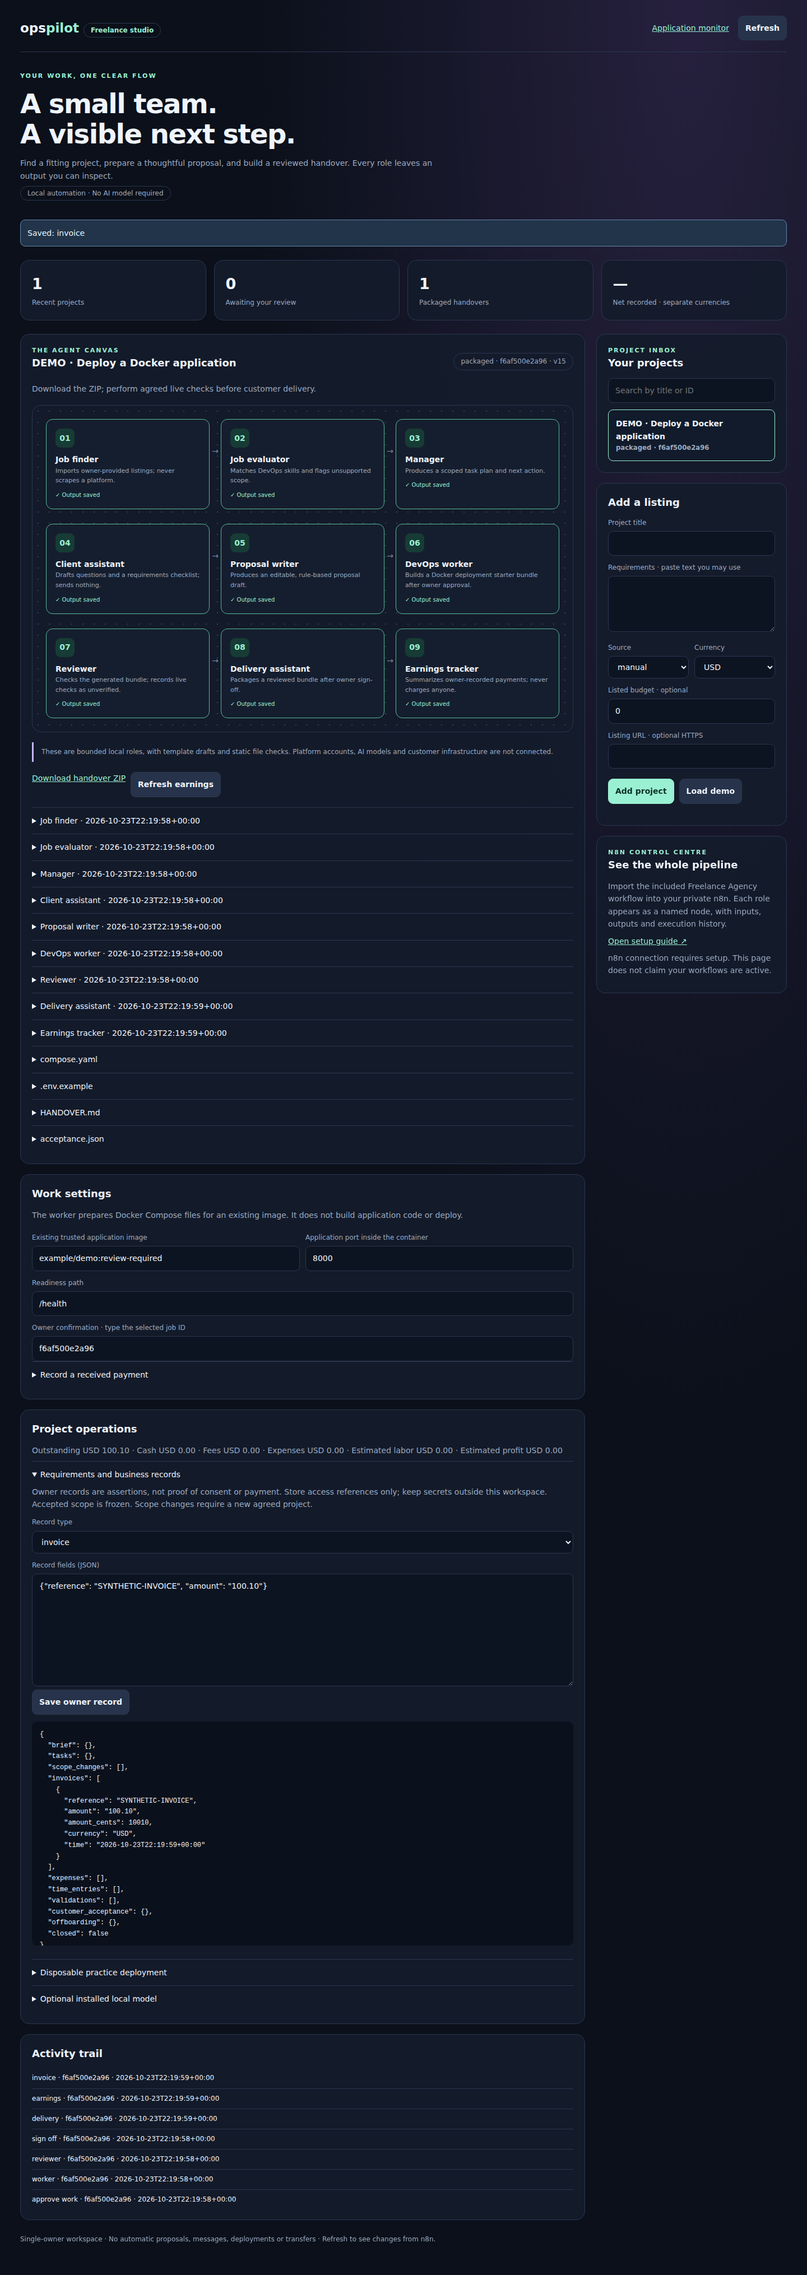
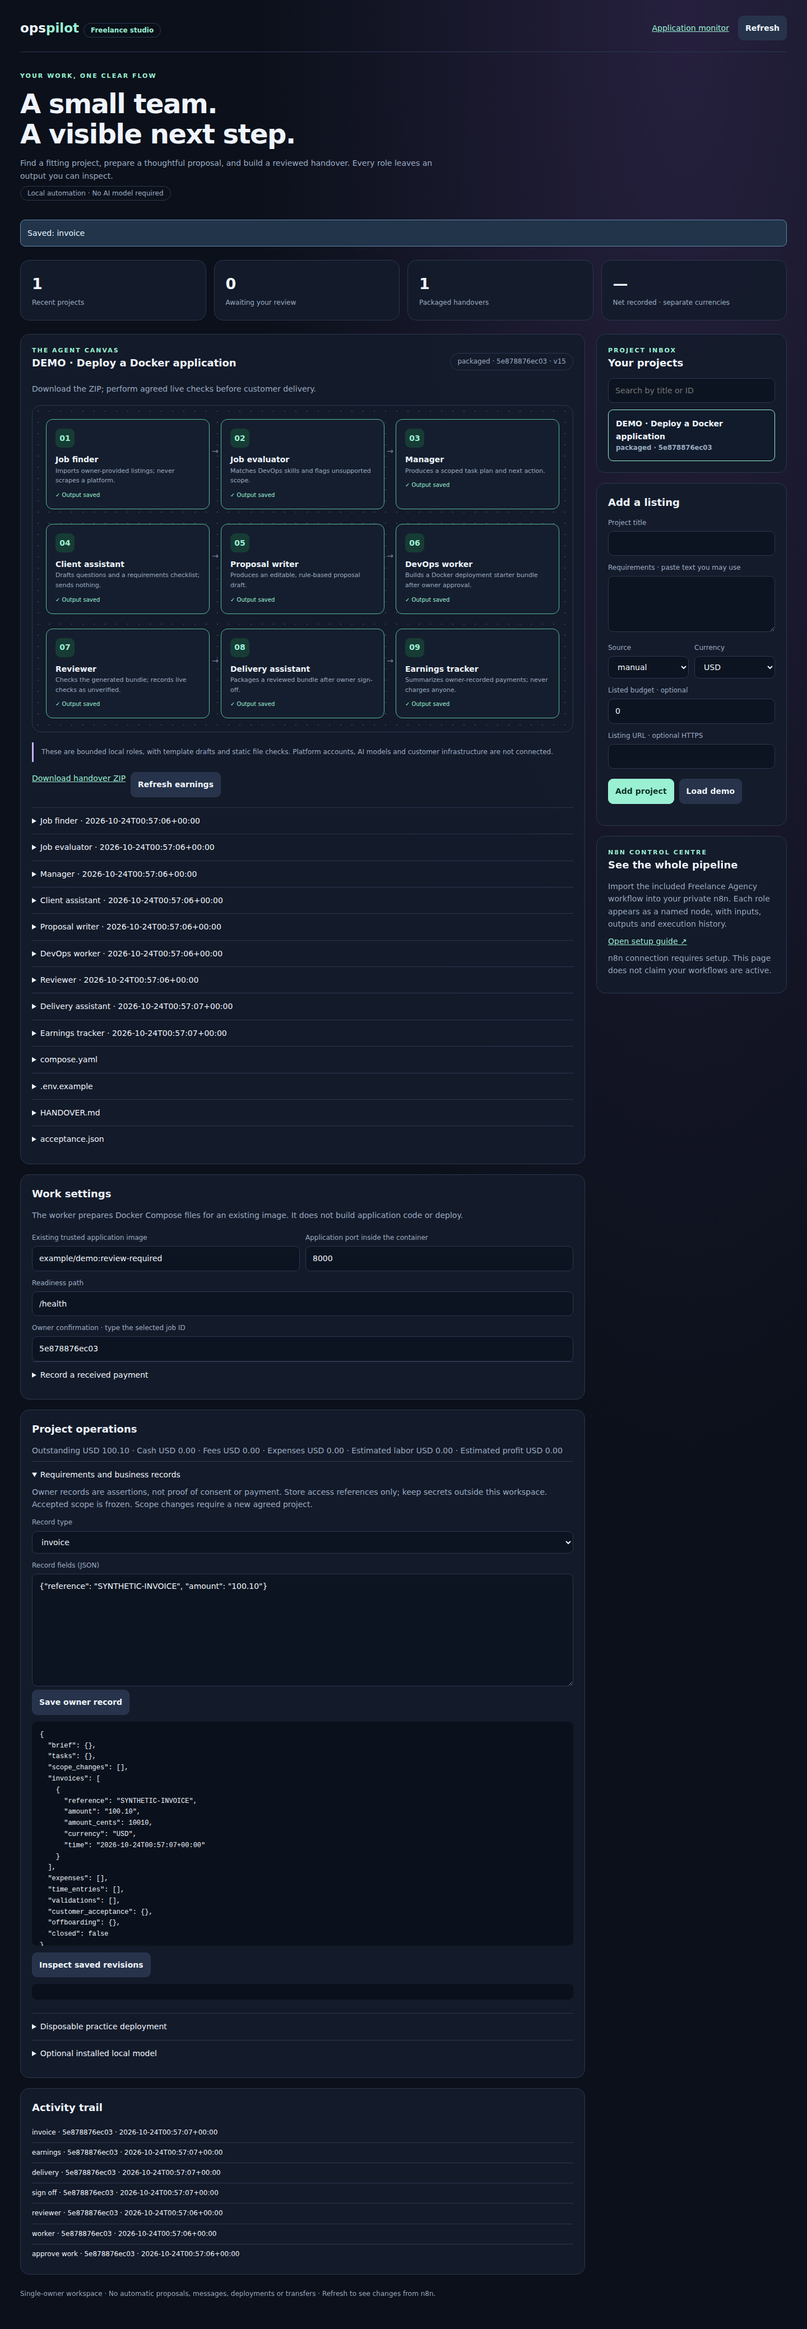
Record seven-job acceptance evidence and final 50-step roadmap status

diff --git a/docs/AGENCY-VALIDATION.md b/docs/AGENCY-VALIDATION.md
@@ -1,40 +1,55 @@
 # Agency continuation validation
 
-Current continuation is on `feat/freelance-agency-studio`, PR #4, not main. Inspection confirmed the clean remote feature head `fe83251a20ce8c42843c111222a183573010743a`, open/unmerged PR and the prior successful [foundation run](https://github.com/Vishnu063/ops-pilot/actions/runs/40023644211). That run proves only the prior foundation. Historical untracked drafts were absent; new modules implement their stated requirements.
+**All seven CI jobs passed on implementation commit `782a8aa428d6872e49f83d2924485ec7c321abe9`: [run 40047437636](https://github.com/Vishnu063/ops-pilot/actions/runs/40047437636).** The final follow-up changes only documentation and captured synthetic evidence. Work continues on `feat/freelance-agency-studio` in [PR #4](https://github.com/Vishnu063/ops-pilot/pull/4); main was not updated or merged.
 
-Local continuation checks (2026-10-24): initial full suite 40 discovered / 36 passed / four Docker skips; added interruption/expiry tests and final rerun results will be recorded below. Financial tests cover project isolation, duplicate references, exact cents, fees, labor rounding and unauthorized mutations. Backup tests cover consistency/artifact recovery, private modes, hash tampering and refusal to overwrite. Lab-control tests use simulated subprocess failures and must not be described as Docker execution.
+The [50-step roadmap](AGENCY-ROADMAP.md) records **32 verified in repository/synthetic scope and 18 prepared/documented**. This is not a claim that 50 customer actions occurred or that the agency is production-ready.
 
-Installed CLI/setup smoke passed with the virtual environment on PATH. Python/shell/dashboard JavaScript syntax and generated n8n structural/credential-boundary checks passed before workspace recovery; rerun required on recovered checkout.
+## Observed results
 
-Local Playwright downloaded successfully, but Chromium launch was refused by the macOS sandbox (`bootstrap_check_in ... Permission denied`). No new local visual/browser pass is claimed. Linux browser CI remains required. Local Docker and systemd are unavailable. An Ollama executable is present; localhost:11434 refused connection. No model was downloaded or started; real advice quality/usage comparison remains unverified.
+| Check | Result and evidence | Boundary |
+| --- | --- | --- |
+| Local Python suite | 47 discovered, 43 passed, four opt-in Docker cases skipped | Skips are not passes. Tests use real local HTTP/SQLite; most Docker failures are simulated. |
+| CI Python 3.11/3.12/3.13 | All passed, including installed CLI/setup smoke, syntax and workflow structure | Single-owner software; no hostile tenant security claim. |
+| Original Docker lab | Three actual container/recovery cases passed in CI | Preserves the pinned monitoring engine and separate repair approval. |
+| Generated-bundle Docker lab | Actual generated Compose config/start, healthy HTTP 200, unhealthy endpoint deadline and ownership-checked cleanup passed | Practice runtime only; both cleanups verified. No customer target accessed. |
+| Desktop/mobile browsers | Original monitor and agency journeys passed; nine roles, separate approvals, invoice record, ZIP, no page errors or mobile overflow | Synthetic listings; original monitor uses simulated Docker. Screenshots were visually reviewed. |
+| Real systemd lab | Detached start and crash recovery passed | Disposable CI host, no customer service installation. |
+| Real n8n 2.44.6 | Authenticated production form, five planning roles, owner decisions, worker/reviewer, delivery, business record/payment, board, stale refusal and binary ZIP response passed | Disposable isolated CI runtime with synthetic credentials/data; no existing account configured. [Result](evidence/n8n-acceptance.json). |
+| Business/approval tests | Per-project/currency balances, exact cents and labor rounding, duplicates, role denial, scope freeze, changed-evidence invalidation, expiry, closure and concurrency passed | Owner records are not proof of consent, identity, acceptance or money. |
+| Backup/restore | Consistent embedded-artifact snapshot, private modes, integrity/hash, tamper refusal and fresh-destination restore passed | Restored approvals cleared. Original monitor and n8n credential/volume backups are separate. |
+| Lab failure controls | Simulated timeout, interrupted restart/recovery, failed cleanup, foreign ownership and different-daemon refusal passed | These failure simulations are not real Docker timeout/host-failure evidence. |
+| Synthetic pilot | Nine roles, business/financial records, customer-acceptance/offboarding simulation, closure and restoration passed | [Report](evidence/synthetic-pilot.json); no real customer or money. |
+| Optional AI | Adapter is bounded, cached, has no execution/tools/paid fallback; missing-model refusal tested | Local Ollama service was unavailable; no model downloaded, quality benchmark, token/cost saving or real model acceptance claimed. |
 
-The workspace directory unexpectedly disappeared during validation, including uncommitted source and a disposable n8n install. Its cause was not established. Authoring commands were recovered from this chat's local command log, replayed against a fresh clone, and checkpointed in Git. Final checks apply to the recovered tree. This incident is not a successful n8n import/acceptance result.
+The compatible unprivileged Docker fixture uses port 8080; see [its upstream documentation](https://github.com/nginx/docker-nginx-unprivileged). The worker still requires an explicitly allowlisted immutable image already present locally and a local Unix Docker daemon. It never pulls/builds images. Its lab approval is persisted as consumed before side effects; recovery requires the recorded original daemon/endpoint and refuses an active process or foreign resources.
 
-## Required checks and their purpose
+![Actual n8n completion board from the isolated synthetic test](images/n8n-agency-board.png)
 
-- `python -m unittest discover -s tests -v` tests persistence, authentication, approvals, business/accounting, backup and simulated failure behavior. Opt-in Docker tests explicitly skip without a disposable host.
-- `python scripts/installation_smoke.py` tests the installed command entry point and private setup/cancellation. Activate the repository virtual environment first so `ops-pilot` is on PATH.
-- `python -m compileall -q ops_pilot scripts tests` checks Python syntax; `bash -n start.sh scripts/install-service.sh` parses shell scripts without executing them.
-- Extract each dashboard's script and run `node --check` to parse JavaScript without a browser. This does not establish visual correctness.
-- `python scripts/build-freelance-workflow.py` regenerates the credential-free inactive workflow; `python scripts/check-freelance-workflow.py` checks structure and owner/worker boundaries. Neither establishes n8n runtime behavior.
-- `python tests/browser_acceptance.py` and `python tests/freelance_browser.py` exercise real desktop/mobile Chromium against local HTTP/SQLite; original monitoring uses simulated Docker.
-- `OPS_PILOT_GENERATED_LAB=1 python -m unittest discover -s tests -p test_generated_bundle_lab.py -v` pulls a public practice image as test setup, then validates the actual generated Compose artifact with an immutable allowlist, real start/readiness/unhealthy endpoint and owned cleanup. Run only on an owned disposable Docker host; the worker itself never pulls images.
-- `python scripts/synthetic-pilot.py` exercises nine roles, explicit owner gates, synthetic business/financial records and backup restoration; saves a labelled report and example starter bundle. It deploys nothing and collects no money.
+This is a real rendered n8n completion response, not a live canvas or the owner's account. Figures are synthetic ledger entries. The earlier SVG remains a generated canvas overview. The current agency desktop/mobile screenshots came from the passing CI run and were reviewed before delivery.
 
-## Remaining external actions
+## Reproducible checks and purpose
 
-No customer infrastructure, cloud account, signed agreement, verified authorization, actual acceptance, bank receipt, paid pilot or platform account was supplied. No proposals/messages were sent, services publicly exposed, payments collected or customer changes performed. External acceptance cannot be marked complete by an owner checkbox or a synthetic test. Optional repositories remain deferred as described in the decision inventory. n8n credentials/volumes require their own backup; this repository's snapshot tool cannot replace it.
+Activate the repository virtual environment first so its installed `ops-pilot` command is on PATH.
 
-## Verified continuation evidence
+- `python -m unittest discover -s tests -v` checks persistence, local HTTP authentication, approvals, accounting, revision history, backup and failure controls. Opt-in Docker cases skip without an owned disposable host.
+- `python scripts/installation_smoke.py` checks the installed CLI, private setup and cancellation behavior.
+- `python -m compileall -q ops_pilot scripts tests` parses Python; `bash -n start.sh scripts/install-service.sh` parses shell without running services. Extract each dashboard script and use `node --check` to parse its JavaScript; this is not visual acceptance.
+- `python scripts/build-freelance-workflow.py` regenerates the inactive credential-free workflow. `python scripts/check-freelance-workflow.py` checks structure, expression boundaries and credential roles; neither replaces runtime acceptance.
+- `python tests/browser_acceptance.py` and `python tests/freelance_browser.py` exercise real Chromium desktop/mobile sessions against local HTTP/SQLite.
+- `OPS_PILOT_GENERATED_LAB=1 python -m unittest discover -s tests -p test_generated_bundle_lab.py -v` runs actual Compose acceptance only on a disposable owned Docker host. The test setup explicitly pulls its public fixture; the worker does not.
+- Set `N8N_EXECUTABLE` to an isolated n8n 2.44.6 executable and run `python tests/n8n_acceptance.py` under Node 24 to exercise real forms, bridge and ZIP. It creates a private temporary n8n instance with generated credentials, then stops it. Do not point it at an existing account/state directory.
+- `python scripts/synthetic-pilot.py` regenerates the labelled report/example files using temporary state; it deploys nothing and records no real money.
 
-[Run 40032826085](https://github.com/Vishnu063/ops-pilot/actions/runs/40032826085) passed all six existing jobs on commit `54faba2946b080626abb877932fa4c7773776044`: Python 3.11/3.12/3.13 tests and installation/syntax/workflow checks, desktop/mobile browser journeys, original and generated-bundle real Docker labs, and actual systemd start/crash recovery. Mobile overflow and an incompatible privileged nginx fixture were corrected before this pass. The compatible unprivileged practice image uses port 8080; see [upstream image documentation](https://github.com/nginx/docker-nginx-unprivileged). Healthy readiness passed, unhealthy readiness failed within its bound, and both cleanups were verified. This is practice acceptance only.
+## Inspection and resolved failures
 
-Browser artifacts were downloaded from that run and visually inspected at desktop/mobile sizes. The synthetic screenshot and browser result are saved under docs/images/agency-studio.png and docs/evidence/agency-browser.json. Later evidence/history/daemon protections have local regression tests and require the final CI result below.
+Inspection confirmed a clean feature head `fe83251a20ce8c42843c111222a183573010743a`, open/unmerged PR #4, and the earlier [passing foundation run](https://github.com/Vishnu063/ops-pilot/actions/runs/40023644211). The historical untracked drafts were absent; the new modules implement their described requirements, rather than claiming recovery of those drafts.
 
-Local disposable n8n installation failed following network errors, then exhausted available disk on retry. Only task-owned runtime/cache files were removed; no existing n8n installation was modified. The real n8n journey is being run in an isolated Linux CI job with Node 24 (required by n8n 2.44.6). The first attempt could not reach a ready form; sanitized runtime diagnostics were added. No n8n end-to-end success is claimed from that failure.
+Validation found and corrected mobile overflow, an incompatible stock nginx fixture, n8n Form Trigger completion mode, execution persistence needed by completion polling, and an expression terminator in the worker route. Real n8n acceptance caught errors that CLI import/structural checks had missed. The passing run above follows those corrections.
 
-The real n8n run exposed a foundation runtime error that import/structural checks had missed: Form Trigger responseMode=responseNode requires a Respond to Webhook node and conflicts with the Form Ending design. The generator now uses lastNode (Workflow Finishes); actual acceptance is rerun after this correction.
+The local macOS sandbox refused Chromium Mach-port registration, so visual/browser acceptance ran in Linux CI. Local Docker/systemd were unavailable. Disposable local n8n installation encountered network failures and disk exhaustion; only task-owned test runtimes/caches were removed. An unexpected workspace-directory removal also occurred; its cause was not established. Authored changes were recovered from this chat's command log onto a fresh clone and checkpointed in Git. Final verification applies to that recovered tree; no existing n8n installation or customer data was changed.
 
-The next real form test reached submission and exposed another runtime requirement: n8n completion polling needs successful execution persistence. The workflow retains the foundation setting to save executions, with private n8n access and bounded retention required. Disabling payload persistence broke completion and was reverted; keeping secrets out of forms remains essential.
+## Remaining external dependencies
 
-Real n8n intake/planning and owner approvals then passed. The generated-file route exposed an adjacent `}}` object closure inside its expression; those braces are separated so they cannot be read as the expression terminator. Runtime acceptance continues beyond that fix.
+The owner's actual n8n/backend instance still needs its private credentials, import/setup and operational acceptance. n8n Form Ending needs saved successful execution status; keep it private and configure pruning (the optional Compose example uses seven days). Back up n8n volumes and encryption key separately.
+
+No real client, signed agreement, verified authorization/access, customer target, reviewed customer delivery, actual acceptance, bank receipt or paid pilot was supplied. Those actions remain pending. No proposals/messages were sent, services publicly exposed, payments collected or customer infrastructure changed. Owner-entered references and synthetic tests cannot establish those facts. Optional model service/weights/license acceptance and later-service workers remain unverified/gated. Deferred repository decisions and unresolved licenses/Strata identity are recorded in [the selective inventory](REPOSITORY-DECISIONS.md).

diff --git a/docs/AGENCY-ROADMAP.md b/docs/AGENCY-ROADMAP.md
@@ -1,8 +1,8 @@
 # Agency 50-step roadmap
 
-Updated 2026-10-24 (Asia/Kolkata). Status refers to the stated repository scope, never to a real customer action. “Verified” includes deterministic code/tests or the explicitly labelled synthetic pilot; lab/browser/n8n runtime verification is listed separately. Prepared documents are not completed services.
+Updated 2026-10-24 (Asia/Kolkata). Status refers to the stated repository scope, never to a real customer action. “Verified” includes deterministic code/tests or the explicitly labelled synthetic pilot; lab/browser/n8n runtime verification is linked to the passing CI run, separately from customer acceptance. Prepared documents are not completed services.
 
-30 verified, 18 prepared/documented, 2 implemented awaiting verification. No step is omitted. See [validation](AGENCY-VALIDATION.md) for exact checks and external dependencies.
+32 verified, 18 prepared/documented, 0 implemented awaiting verification. No step is omitted. See [validation](AGENCY-VALIDATION.md) for exact checks and external dependencies.
 
 | Step | Status | Completion criterion / scope | Dependencies (steps) | Evidence | Remaining gate / limitation |
 | --- | --- | --- | --- | --- | --- |
@@ -46,8 +46,8 @@ Updated 2026-10-24 (Asia/Kolkata). Status refers to the stated repository scope,
 | 38. Check application readiness. | verified | Check the agreed endpoint repeatedly with bounded timeouts and redirect/network controls. A running container alone is insufficient. | 26, 30 | [Evidence](../tests/test_generated_bundle_lab.py) | Observed lab/browser acceptance passed in CI run 40032826085; sandbox evidence remains separate from customer runtime. |
 | 39. Exercise failure and recovery. | verified | Cover unhealthy endpoints, invalid configuration, timeout, interrupted execution, cleanup failure and appropriate rollback behavior. Never hide failed checks or cleanup. | 26, 30 | [Evidence](../tests/test_agency.py) | Observed lab/browser acceptance passed in CI run 40032826085; sandbox evidence remains separate from customer runtime. |
 | 40. Bind approval to exact artifacts. | verified | Use version/digest checks. Changed requirements, files or evidence invalidate the approvals/reviews that no longer apply. | 26, 30 | [Evidence](../ops_pilot/freelance.py) | No repository blocker; owner review remains required for customer use. |
-| 41. Complete the n8n control flow. | implemented awaiting verification | Connect intake, planning, business decisions, approvals, work, review, status board and downloads. Show all nine roles and actual outputs. | 13, 30 | [Evidence](../n8n/freelance-agency.json) | Regenerated structure checked; real n8n journey pending. |
-| 42. Verify n8n end to end. | implemented awaiting verification | Use an isolated n8n instance to exercise real authenticated forms, routing, bridge calls, errors and ZIP responses. Structural checks/import alone are insufficient. | 13, 30 | [Evidence](../tests/n8n_acceptance.py) | Disposable runtime acceptance pending; import alone insufficient. |
+| 41. Complete the n8n control flow. | verified | Connect intake, planning, business decisions, approvals, work, review, status board and downloads. Show all nine roles and actual outputs. | 13, 30 | [Evidence](../n8n/freelance-agency.json) | Real isolated n8n authenticated form/bridge/ZIP acceptance passed in CI run 40047437636. Owner account setup remains external. |
+| 42. Verify n8n end to end. | verified | Use an isolated n8n instance to exercise real authenticated forms, routing, bridge calls, errors and ZIP responses. Structural checks/import alone are insufficient. | 13, 30 | [Evidence](../tests/n8n_acceptance.py) | Real isolated n8n authenticated form/bridge/ZIP acceptance passed in CI run 40047437636. Owner account setup remains external. |
 | 43. Simplify the dashboard. | verified | Show status, required next action, blockers, approvals, outputs, finances and failures clearly on desktop/mobile. Keep advanced settings tucked away. | 13, 30 | [Evidence](../ops_pilot/freelance.html) | Observed lab/browser acceptance passed in CI run 40032826085; sandbox evidence remains separate from customer runtime. |
 | 44. Verify boundaries and persistence. | verified | Check authentication/authorization, secret handling, stale requests, approval expiry, replay prevention, restarts and concurrent requests. | 13, 30 | [Evidence](../tests/test_agency.py) | No repository blocker; owner review remains required for customer use. |
 | 45. Implement agency backup and restoration. | verified | Back up database/artifacts consistently, protect files, verify integrity and test restore into a new destination. Document separate n8n credential/volume backup. | 14, 44 | [Evidence](../ops_pilot/backup.py) | No repository blocker; owner review remains required for customer use. |

diff --git a/README.md b/README.md
@@ -29,7 +29,7 @@ A separate workspace now tracks freelance projects through nine bounded local ro
 
 ![Freelance studio — synthetic demonstration](docs/images/freelance-studio.png)
 
-**[Open the easy setup guide](docs/FREELANCE.md)** · **[Import the n8n canvas](n8n/freelance-agency.json)** · [Observed validation](docs/FREELANCE-VALIDATION.md)
+**[All 50 agency steps](docs/AGENCY-ROADMAP.md)** · **[Current verification](docs/AGENCY-VALIDATION.md)** · **[Open the easy setup guide](docs/FREELANCE.md)** · **[Import the n8n canvas](n8n/freelance-agency.json)** · [Observed validation](docs/FREELANCE-VALIDATION.md)
 
 The n8n control form supports importing a listing, viewing all project outputs and files, owner decisions, worker/reviewer execution, earnings and ZIP download. Credentials and a running backend must be configured on your own server. The original monitoring dashboard links to `/freelance`; standalone mode also works without a configured Docker target. These additions do not turn the preview into an autonomous or production-ready freelance business.
 
@@ -478,6 +478,8 @@ support yet. Hosting and optional AI still consume resources even when software
 has no subscription fee. No production changes have been made by building this repo.
 
 ## Agency continuation
+
+All seven implementation CI jobs passed, including real generated-bundle Docker and authenticated n8n form-to-ZIP acceptance: [verified run](https://github.com/Vishnu063/ops-pilot/actions/runs/40047437636). The roadmap has 32 verified repository/synthetic steps and 18 prepared/documented steps; real customer actions remain pending.
 
 The existing monitor and nine-role freelance studio now include owner-maintained requirements, tasks/dependencies, scope-change records, invoices, expenses, time/labor, validation references, customer acceptance and offboarding. Finances stay separated by project/currency. Records are assertions, not independently verified consent or money.
 

diff --git a/docs/example-delivery/README.md b/docs/example-delivery/README.md
@@ -1,0 +1,3 @@
+# Synthetic example only
+
+These are generated starter files from the synthetic pilot, not customer work or a deployed application. The image digest is an intentionally unusable placeholder. No real acceptance, payment or infrastructure change occurred. See ../evidence/synthetic-pilot.json and ../AGENCY-VALIDATION.md for the exact evidence and limits.
